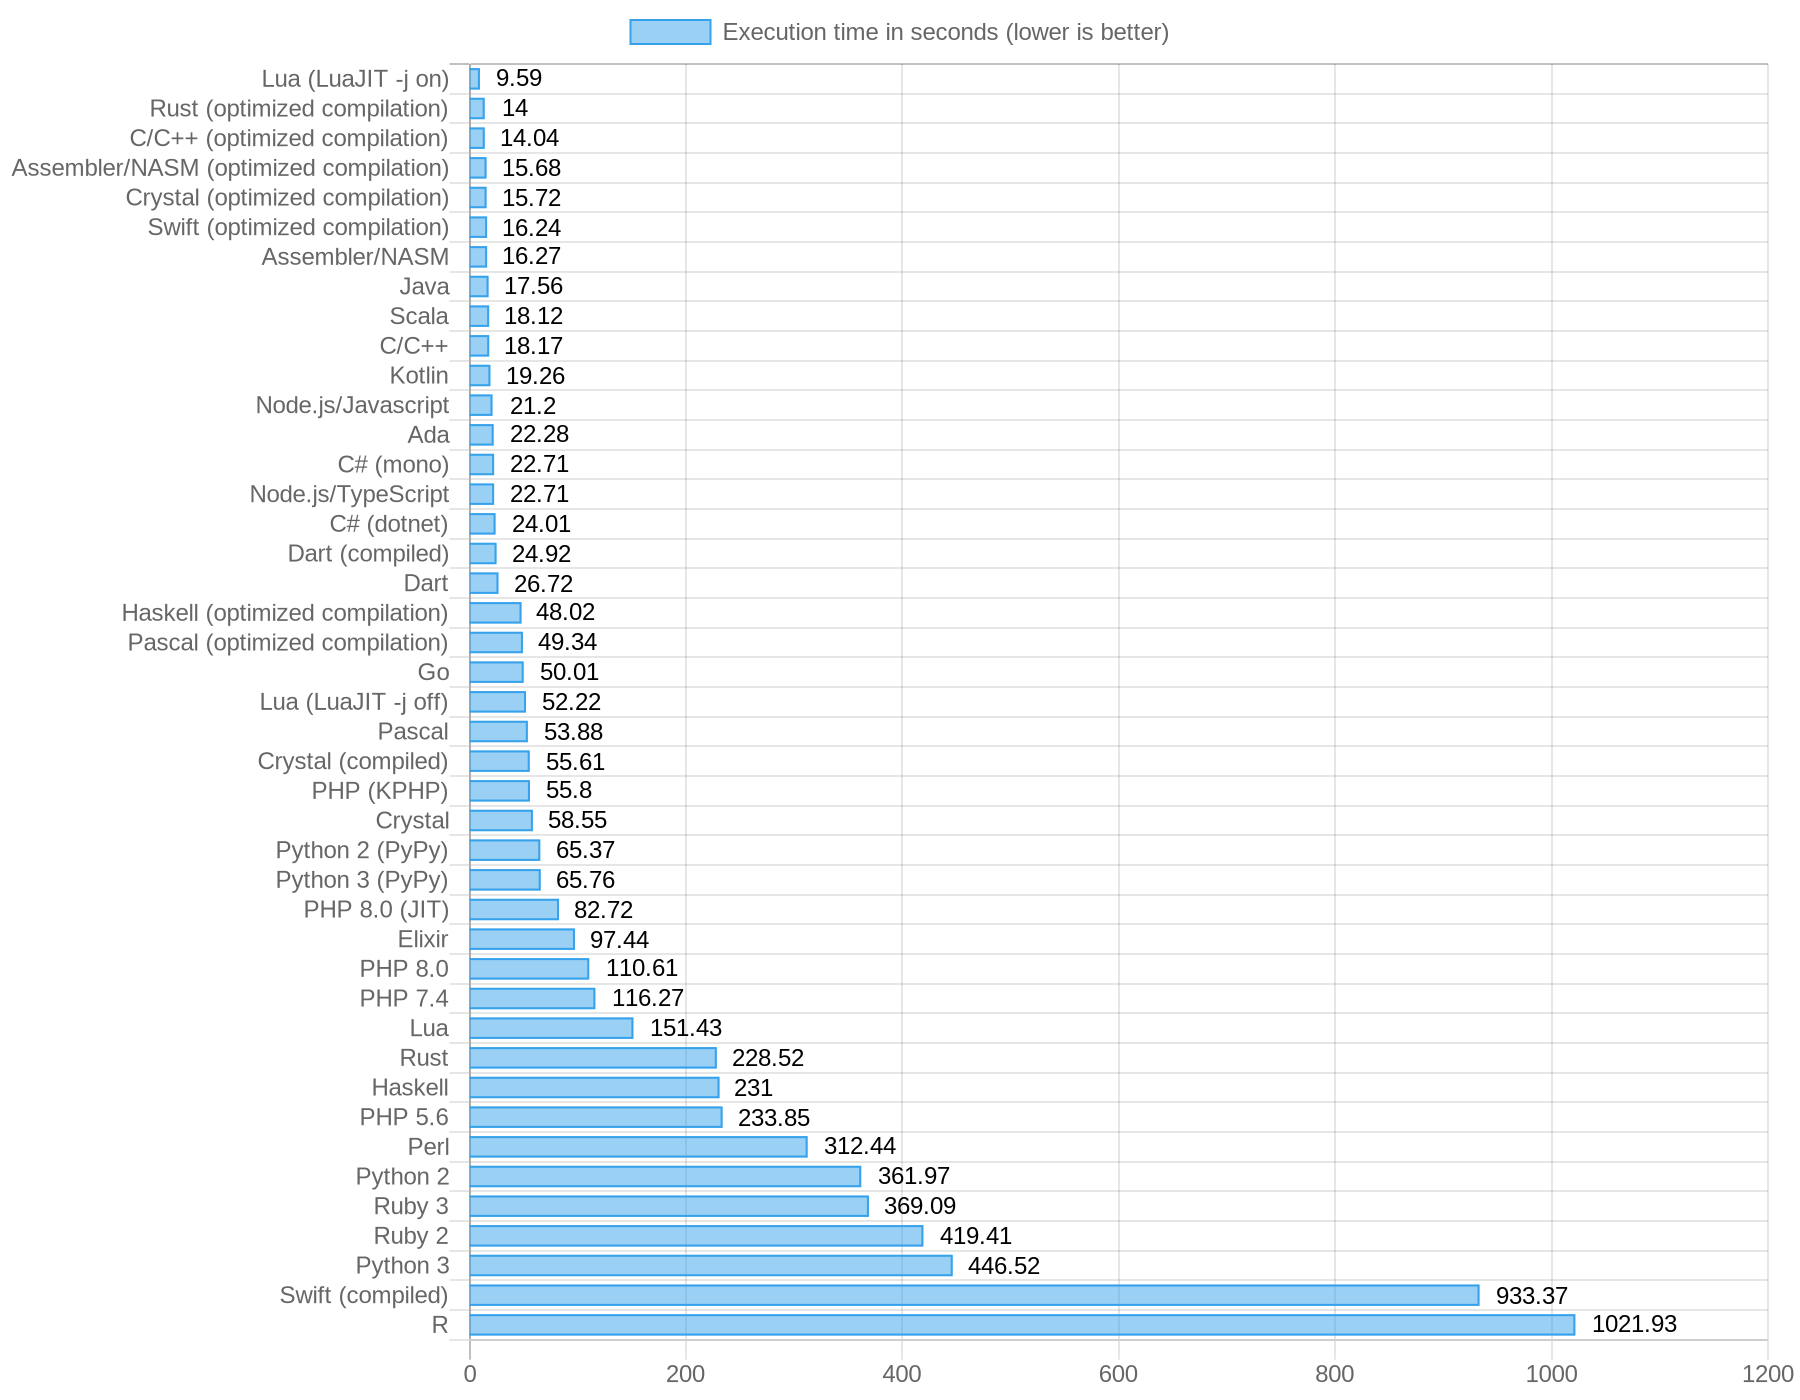
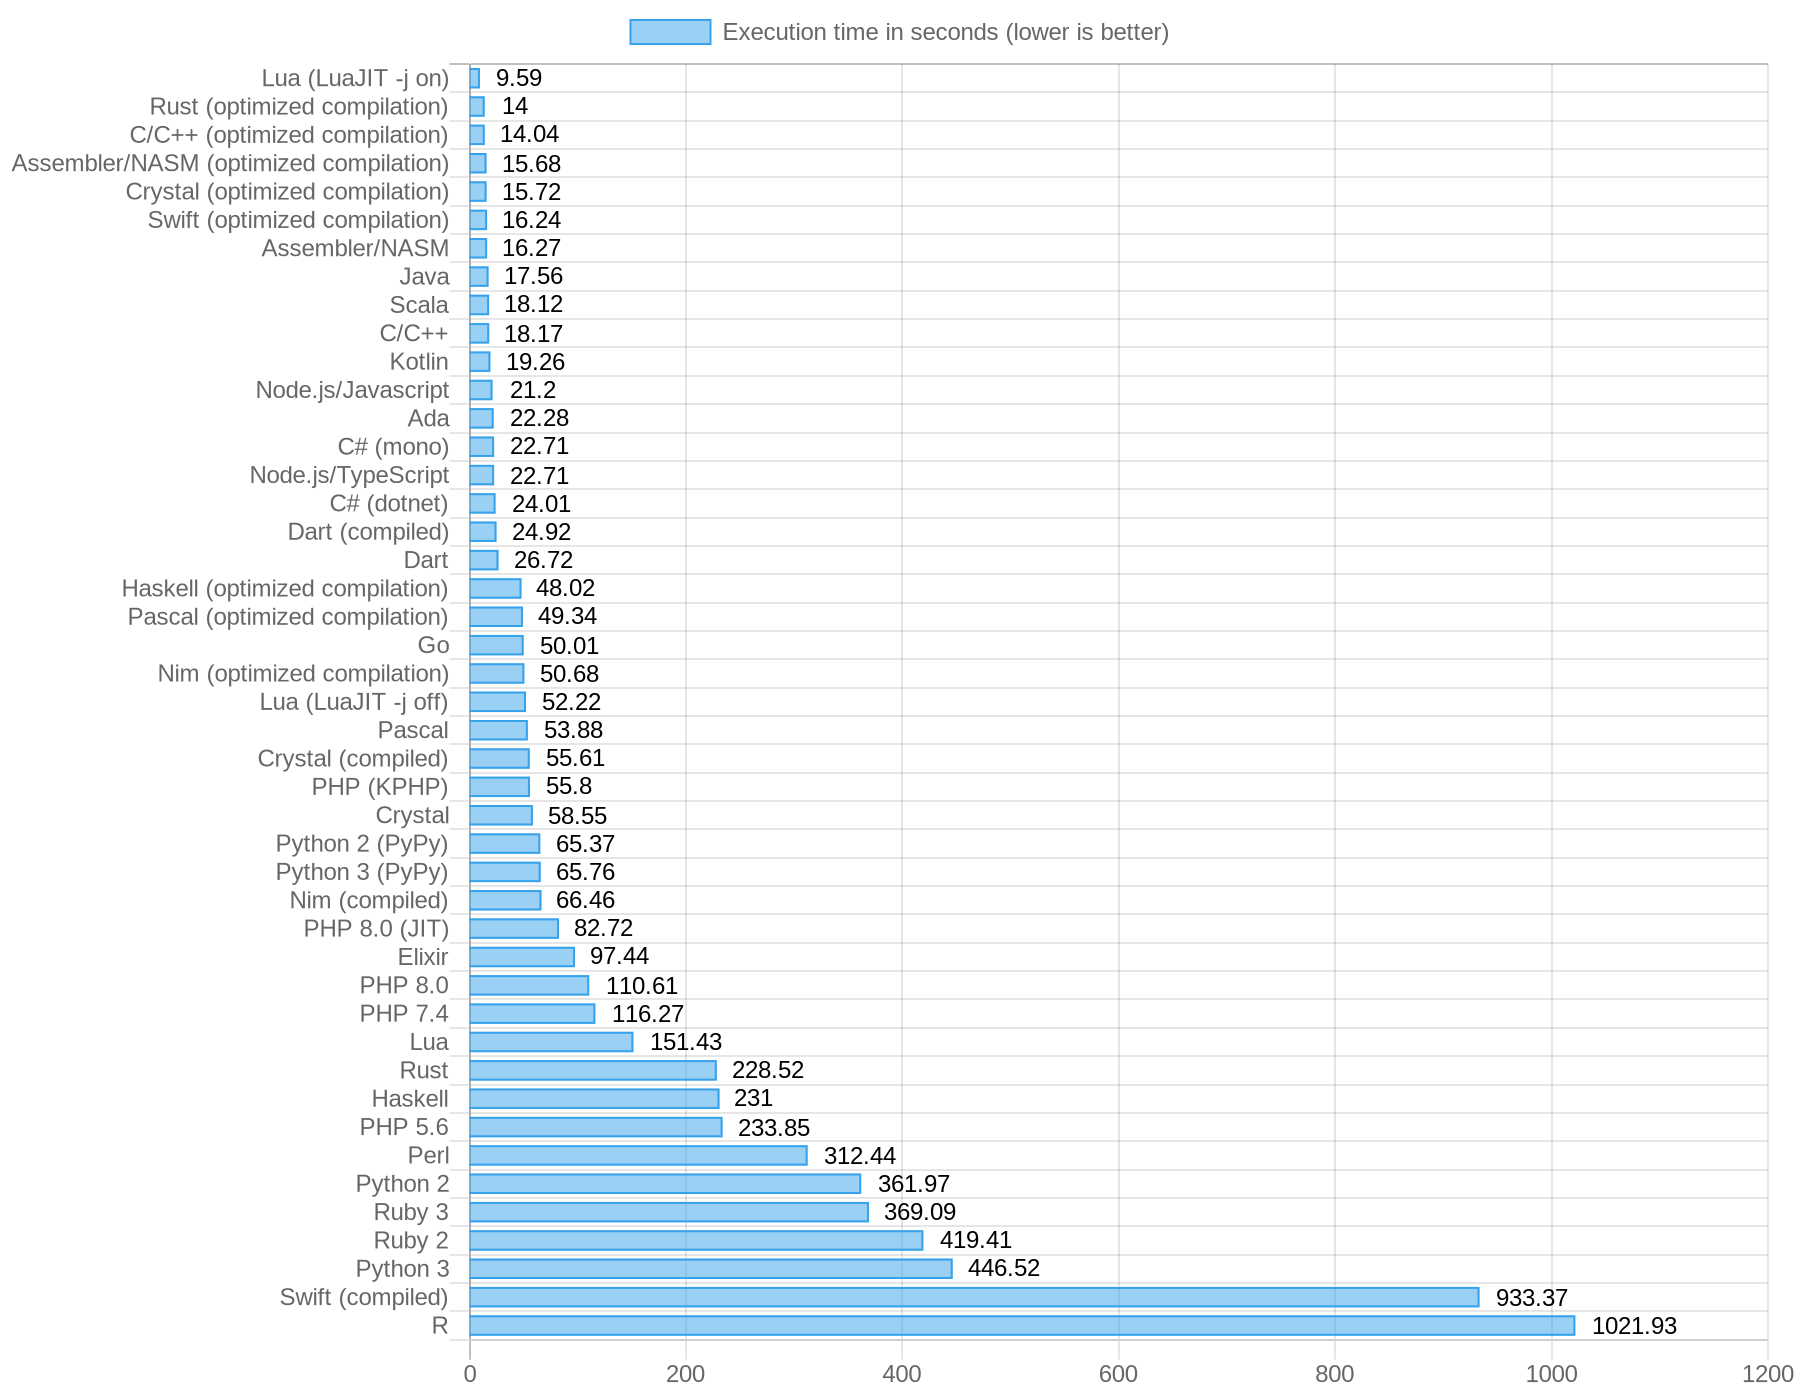
Update chart image

Changed region(s): [[0.0, 0.0614, 0.9956, 0.9521]]

diff --git a/README.md b/README.md
@@ -50,7 +50,7 @@ Flags:                           fpu vme de pse tsc msr pae mce cx8 apic sep mtr
                                  xsaveopt xsavec xgetbv1 xsaves ida arat pku ospke
 ```
 
-![https://quickchart.io/sandbox/#%7B%0A%20%20%22type%22%3A%20%22horizontalBar%22%2C%0A%20%20%22data%22%3A%20%7B%0A%20%20%20%20%22labels%22%3A%20%5B%0A%20%20%20%20%20%20%22Lua%20(LuaJIT%20-j%20on)%22%2C%0A%20%20%20%20%20%20%22Rust%20(optimized%20compilation)%22%2C%0A%20%20%20%20%20%20%22C%2FC%2B%2B%20(optimized%20compilation)%22%2C%0A%20%20%20%20%20%20%22Assembler%2FNASM%20(optimized%20compilation)%22%2C%0A%20%20%20%20%20%20%22Crystal%20(optimized%20compilation)%22%2C%0A%20%20%20%20%20%20%22Swift%20(optimized%20compilation)%22%2C%0A%20%20%20%20%20%20%22Assembler%2FNASM%22%2C%0A%20%20%20%20%20%20%22Java%22%2C%0A%20%20%20%20%20%20%22Scala%22%2C%0A%20%20%20%20%20%20%22C%2FC%2B%2B%22%2C%0A%20%20%20%20%20%20%22Kotlin%22%2C%0A%20%20%20%20%20%20%22Node.js%2FJavascript%22%2C%0A%20%20%20%20%20%20%22Ada%22%2C%0A%20%20%20%20%20%20%22C%23%20(mono)%22%2C%0A%20%20%20%20%20%20%22Node.js%2FTypeScript%22%2C%0A%20%20%20%20%20%20%22C%23%20(dotnet)%22%2C%0A%20%20%20%20%20%20%22Dart%20(compiled)%22%2C%0A%20%20%20%20%20%20%22Dart%22%2C%0A%20%20%20%20%20%20%22Haskell%20(optimized%20compilation)%22%2C%0A%20%20%20%20%20%20%22Pascal%20(optimized%20compilation)%22%2C%0A%20%20%20%20%20%20%22Go%22%2C%0A%20%20%20%20%20%20%22Lua%20(LuaJIT%20-j%20off)%22%2C%0A%20%20%20%20%20%20%22Pascal%22%2C%0A%20%20%20%20%20%20%22Crystal%20(compiled)%22%2C%0A%20%20%20%20%20%20%22PHP%20(KPHP)%22%2C%0A%20%20%20%20%20%20%22Crystal%22%2C%0A%20%20%20%20%20%20%22Python%202%20(PyPy)%22%2C%0A%20%20%20%20%20%20%22Python%203%20(PyPy)%22%2C%0A%20%20%20%20%20%20%22PHP%208.0%20(JIT)%22%2C%0A%20%20%20%20%20%20%22Elixir%22%2C%0A%20%20%20%20%20%20%22PHP%208.0%22%2C%0A%20%20%20%20%20%20%22PHP%207.4%22%2C%0A%20%20%20%20%20%20%22Lua%22%2C%0A%20%20%20%20%20%20%22Rust%22%2C%0A%20%20%20%20%20%20%22Haskell%22%2C%0A%20%20%20%20%20%20%22PHP%205.6%22%2C%0A%20%20%20%20%20%20%22Perl%22%2C%0A%20%20%20%20%20%20%22Python%202%22%2C%0A%20%20%20%20%20%20%22Ruby%203%22%2C%0A%20%20%20%20%20%20%22Ruby%202%22%2C%0A%20%20%20%20%20%20%22Python%203%22%2C%0A%20%20%20%20%20%20%22Swift%20(compiled)%22%2C%0A%20%20%20%20%20%20%22R%22%0A%20%20%20%20%5D%2C%0A%20%20%20%20%22datasets%22%3A%20%5B%0A%20%20%20%20%20%20%7B%0A%20%20%20%20%20%20%20%20%22label%22%3A%20%22Execution%20time%20in%20seconds%20(lower%20is%20better)%22%2C%0A%20%20%20%20%20%20%20%20%22backgroundColor%22%3A%20%22rgba(54%2C%20162%2C%20235%2C%200.5)%22%2C%0A%20%20%20%20%20%20%20%20%22borderColor%22%3A%20%22rgb(54%2C%20162%2C%20235)%22%2C%0A%20%20%20%20%20%20%20%20%22borderWidth%22%3A%201%2C%0A%20%20%20%20%20%20%20%20%22data%22%3A%20%5B%0A%20%20%20%20%20%20%20%20%20%209.59%2C%0A%20%20%20%20%20%20%20%20%20%2014%2C%0A%20%20%20%20%20%20%20%20%20%2014.04%2C%0A%20%20%20%20%20%20%20%20%20%2015.68%2C%0A%20%20%20%20%20%20%20%20%20%2015.72%2C%0A%20%20%20%20%20%20%20%20%20%2016.24%2C%0A%20%20%20%20%20%20%20%20%20%2016.27%2C%0A%20%20%20%20%20%20%20%20%20%2017.56%2C%0A%20%20%20%20%20%20%20%20%20%2018.12%2C%0A%20%20%20%20%20%20%20%20%20%2018.17%2C%0A%20%20%20%20%20%20%20%20%20%2019.26%2C%0A%20%20%20%20%20%20%20%20%20%2021.2%2C%0A%20%20%20%20%20%20%20%20%20%2022.28%2C%0A%20%20%20%20%20%20%20%20%20%2022.71%2C%0A%20%20%20%20%20%20%20%20%20%2022.71%2C%0A%20%20%20%20%20%20%20%20%20%2024.01%2C%0A%20%20%20%20%20%20%20%20%20%2024.92%2C%0A%20%20%20%20%20%20%20%20%20%2026.72%2C%0A%20%20%20%20%20%20%20%20%20%2048.02%2C%0A%20%20%20%20%20%20%20%20%20%2049.34%2C%0A%20%20%20%20%20%20%20%20%20%2050.01%2C%0A%20%20%20%20%20%20%20%20%20%2052.22%2C%0A%20%20%20%20%20%20%20%20%20%2053.88%2C%0A%20%20%20%20%20%20%20%20%20%2055.61%2C%0A%20%20%20%20%20%20%20%20%20%2055.8%2C%0A%20%20%20%20%20%20%20%20%20%2058.55%2C%0A%20%20%20%20%20%20%20%20%20%2065.37%2C%0A%20%20%20%20%20%20%20%20%20%2065.76%2C%0A%20%20%20%20%20%20%20%20%20%2082.72%2C%0A%20%20%20%20%20%20%20%20%20%2097.44%2C%0A%20%20%20%20%20%20%20%20%20%20110.61%2C%0A%20%20%20%20%20%20%20%20%20%20116.27%2C%0A%20%20%20%20%20%20%20%20%20%20151.43%2C%0A%20%20%20%20%20%20%20%20%20%20228.52%2C%0A%20%20%20%20%20%20%20%20%20%20231%2C%0A%20%20%20%20%20%20%20%20%20%20233.85%2C%0A%20%20%20%20%20%20%20%20%20%20312.44%2C%0A%20%20%20%20%20%20%20%20%20%20361.97%2C%0A%20%20%20%20%20%20%20%20%20%20369.09%2C%0A%20%20%20%20%20%20%20%20%20%20419.41%2C%0A%20%20%20%20%20%20%20%20%20%20446.52%2C%0A%20%20%20%20%20%20%20%20%20%20933.37%2C%0A%20%20%20%20%20%20%20%20%20%201021.93%0A%20%20%20%20%20%20%20%20%5D%0A%20%20%20%20%20%20%7D%0A%20%20%20%20%5D%0A%20%20%7D%2C%0A%20%20%22options%22%3A%20%7B%0A%20%20%20%20%22plugins%22%3A%20%7B%0A%20%20%20%20%20%20%22datalabels%22%3A%20%7B%0A%20%20%20%20%20%20%20%20%22anchor%22%3A%20%22end%22%2C%0A%20%20%20%20%20%20%20%20%22align%22%3A%20%22end%22%2C%0A%20%20%20%20%20%20%20%20%22color%22%3A%20%22%23000%22%0A%20%20%20%20%20%20%7D%0A%20%20%20%20%7D%2C%0A%20%20%20%20%22responsive%22%3A%20true%2C%0A%20%20%20%20%22legend%22%3A%20%7B%0A%20%20%20%20%20%20%22position%22%3A%20%22top%22%0A%20%20%20%20%7D%2C%0A%20%20%20%20%22title%22%3A%20%7B%0A%20%20%20%20%20%20%22display%22%3A%20false%0A%20%20%20%20%7D%0A%20%20%7D%0A%7D](./chart.png)
+![https://quickchart.io/sandbox/#%7B%0A%20%20%22type%22%3A%20%22horizontalBar%22%2C%0A%20%20%22data%22%3A%20%7B%0A%20%20%20%20%22labels%22%3A%20%5B%0A%20%20%20%20%20%20%22Lua%20(LuaJIT%20-j%20on)%22%2C%0A%20%20%20%20%20%20%22Rust%20(optimized%20compilation)%22%2C%0A%20%20%20%20%20%20%22C%2FC%2B%2B%20(optimized%20compilation)%22%2C%0A%20%20%20%20%20%20%22Assembler%2FNASM%20(optimized%20compilation)%22%2C%0A%20%20%20%20%20%20%22Crystal%20(optimized%20compilation)%22%2C%0A%20%20%20%20%20%20%22Swift%20(optimized%20compilation)%22%2C%0A%20%20%20%20%20%20%22Assembler%2FNASM%22%2C%0A%20%20%20%20%20%20%22Java%22%2C%0A%20%20%20%20%20%20%22Scala%22%2C%0A%20%20%20%20%20%20%22C%2FC%2B%2B%22%2C%0A%20%20%20%20%20%20%22Kotlin%22%2C%0A%20%20%20%20%20%20%22Node.js%2FJavascript%22%2C%0A%20%20%20%20%20%20%22Ada%22%2C%0A%20%20%20%20%20%20%22C%23%20(mono)%22%2C%0A%20%20%20%20%20%20%22Node.js%2FTypeScript%22%2C%0A%20%20%20%20%20%20%22C%23%20(dotnet)%22%2C%0A%20%20%20%20%20%20%22Dart%20(compiled)%22%2C%0A%20%20%20%20%20%20%22Dart%22%2C%0A%20%20%20%20%20%20%22Haskell%20(optimized%20compilation)%22%2C%0A%20%20%20%20%20%20%22Pascal%20(optimized%20compilation)%22%2C%0A%20%20%20%20%20%20%22Go%22%2C%0A%20%20%20%20%20%20%22Nim%20(optimized%20compilation)%22%2C%0A%20%20%20%20%20%20%22Lua%20(LuaJIT%20-j%20off)%22%2C%0A%20%20%20%20%20%20%22Pascal%22%2C%0A%20%20%20%20%20%20%22Crystal%20(compiled)%22%2C%0A%20%20%20%20%20%20%22PHP%20(KPHP)%22%2C%0A%20%20%20%20%20%20%22Crystal%22%2C%0A%20%20%20%20%20%20%22Python%202%20(PyPy)%22%2C%0A%20%20%20%20%20%20%22Python%203%20(PyPy)%22%2C%0A%20%20%20%20%20%20%22Nim%20(compiled)%22%2C%0A%20%20%20%20%20%20%22PHP%208.0%20(JIT)%22%2C%0A%20%20%20%20%20%20%22Elixir%22%2C%0A%20%20%20%20%20%20%22PHP%208.0%22%2C%0A%20%20%20%20%20%20%22PHP%207.4%22%2C%0A%20%20%20%20%20%20%22Lua%22%2C%0A%20%20%20%20%20%20%22Rust%22%2C%0A%20%20%20%20%20%20%22Haskell%22%2C%0A%20%20%20%20%20%20%22PHP%205.6%22%2C%0A%20%20%20%20%20%20%22Perl%22%2C%0A%20%20%20%20%20%20%22Python%202%22%2C%0A%20%20%20%20%20%20%22Ruby%203%22%2C%0A%20%20%20%20%20%20%22Ruby%202%22%2C%0A%20%20%20%20%20%20%22Python%203%22%2C%0A%20%20%20%20%20%20%22Swift%20(compiled)%22%2C%0A%20%20%20%20%20%20%22R%22%0A%20%20%20%20%5D%2C%0A%20%20%20%20%22datasets%22%3A%20%5B%0A%20%20%20%20%20%20%7B%0A%20%20%20%20%20%20%20%20%22label%22%3A%20%22Execution%20time%20in%20seconds%20(lower%20is%20better)%22%2C%0A%20%20%20%20%20%20%20%20%22backgroundColor%22%3A%20%22rgba(54%2C%20162%2C%20235%2C%200.5)%22%2C%0A%20%20%20%20%20%20%20%20%22borderColor%22%3A%20%22rgb(54%2C%20162%2C%20235)%22%2C%0A%20%20%20%20%20%20%20%20%22borderWidth%22%3A%201%2C%0A%20%20%20%20%20%20%20%20%22data%22%3A%20%5B%0A%20%20%20%20%20%20%20%20%20%209.59%2C%0A%20%20%20%20%20%20%20%20%20%2014%2C%0A%20%20%20%20%20%20%20%20%20%2014.04%2C%0A%20%20%20%20%20%20%20%20%20%2015.68%2C%0A%20%20%20%20%20%20%20%20%20%2015.72%2C%0A%20%20%20%20%20%20%20%20%20%2016.24%2C%0A%20%20%20%20%20%20%20%20%20%2016.27%2C%0A%20%20%20%20%20%20%20%20%20%2017.56%2C%0A%20%20%20%20%20%20%20%20%20%2018.12%2C%0A%20%20%20%20%20%20%20%20%20%2018.17%2C%0A%20%20%20%20%20%20%20%20%20%2019.26%2C%0A%20%20%20%20%20%20%20%20%20%2021.2%2C%0A%20%20%20%20%20%20%20%20%20%2022.28%2C%0A%20%20%20%20%20%20%20%20%20%2022.71%2C%0A%20%20%20%20%20%20%20%20%20%2022.71%2C%0A%20%20%20%20%20%20%20%20%20%2024.01%2C%0A%20%20%20%20%20%20%20%20%20%2024.92%2C%0A%20%20%20%20%20%20%20%20%20%2026.72%2C%0A%20%20%20%20%20%20%20%20%20%2048.02%2C%0A%20%20%20%20%20%20%20%20%20%2049.34%2C%0A%20%20%20%20%20%20%20%20%20%2050.01%2C%0A%20%20%20%20%20%20%20%20%20%2050.68%2C%0A%20%20%20%20%20%20%20%20%20%2052.22%2C%0A%20%20%20%20%20%20%20%20%20%2053.88%2C%0A%20%20%20%20%20%20%20%20%20%2055.61%2C%0A%20%20%20%20%20%20%20%20%20%2055.8%2C%0A%20%20%20%20%20%20%20%20%20%2058.55%2C%0A%20%20%20%20%20%20%20%20%20%2065.37%2C%0A%20%20%20%20%20%20%20%20%20%2065.76%2C%0A%20%20%20%20%20%20%20%20%20%2066.46%2C%0A%20%20%20%20%20%20%20%20%20%2082.72%2C%0A%20%20%20%20%20%20%20%20%20%2097.44%2C%0A%20%20%20%20%20%20%20%20%20%20110.61%2C%0A%20%20%20%20%20%20%20%20%20%20116.27%2C%0A%20%20%20%20%20%20%20%20%20%20151.43%2C%0A%20%20%20%20%20%20%20%20%20%20228.52%2C%0A%20%20%20%20%20%20%20%20%20%20231%2C%0A%20%20%20%20%20%20%20%20%20%20233.85%2C%0A%20%20%20%20%20%20%20%20%20%20312.44%2C%0A%20%20%20%20%20%20%20%20%20%20361.97%2C%0A%20%20%20%20%20%20%20%20%20%20369.09%2C%0A%20%20%20%20%20%20%20%20%20%20419.41%2C%0A%20%20%20%20%20%20%20%20%20%20446.52%2C%0A%20%20%20%20%20%20%20%20%20%20933.37%2C%0A%20%20%20%20%20%20%20%20%20%201021.93%0A%20%20%20%20%20%20%20%20%5D%0A%20%20%20%20%20%20%7D%0A%20%20%20%20%5D%0A%20%20%7D%2C%0A%20%20%22options%22%3A%20%7B%0A%20%20%20%20%22plugins%22%3A%20%7B%0A%20%20%20%20%20%20%22datalabels%22%3A%20%7B%0A%20%20%20%20%20%20%20%20%22anchor%22%3A%20%22end%22%2C%0A%20%20%20%20%20%20%20%20%22align%22%3A%20%22end%22%2C%0A%20%20%20%20%20%20%20%20%22color%22%3A%20%22%23000%22%0A%20%20%20%20%20%20%7D%0A%20%20%20%20%7D%2C%0A%20%20%20%20%22responsive%22%3A%20true%2C%0A%20%20%20%20%22legend%22%3A%20%7B%0A%20%20%20%20%20%20%22position%22%3A%20%22top%22%0A%20%20%20%20%7D%2C%0A%20%20%20%20%22title%22%3A%20%7B%0A%20%20%20%20%20%20%22display%22%3A%20false%0A%20%20%20%20%7D%0A%20%20%7D%0A%7D](./chart.png)
 
 
 ## Single run of prime number benchmark
